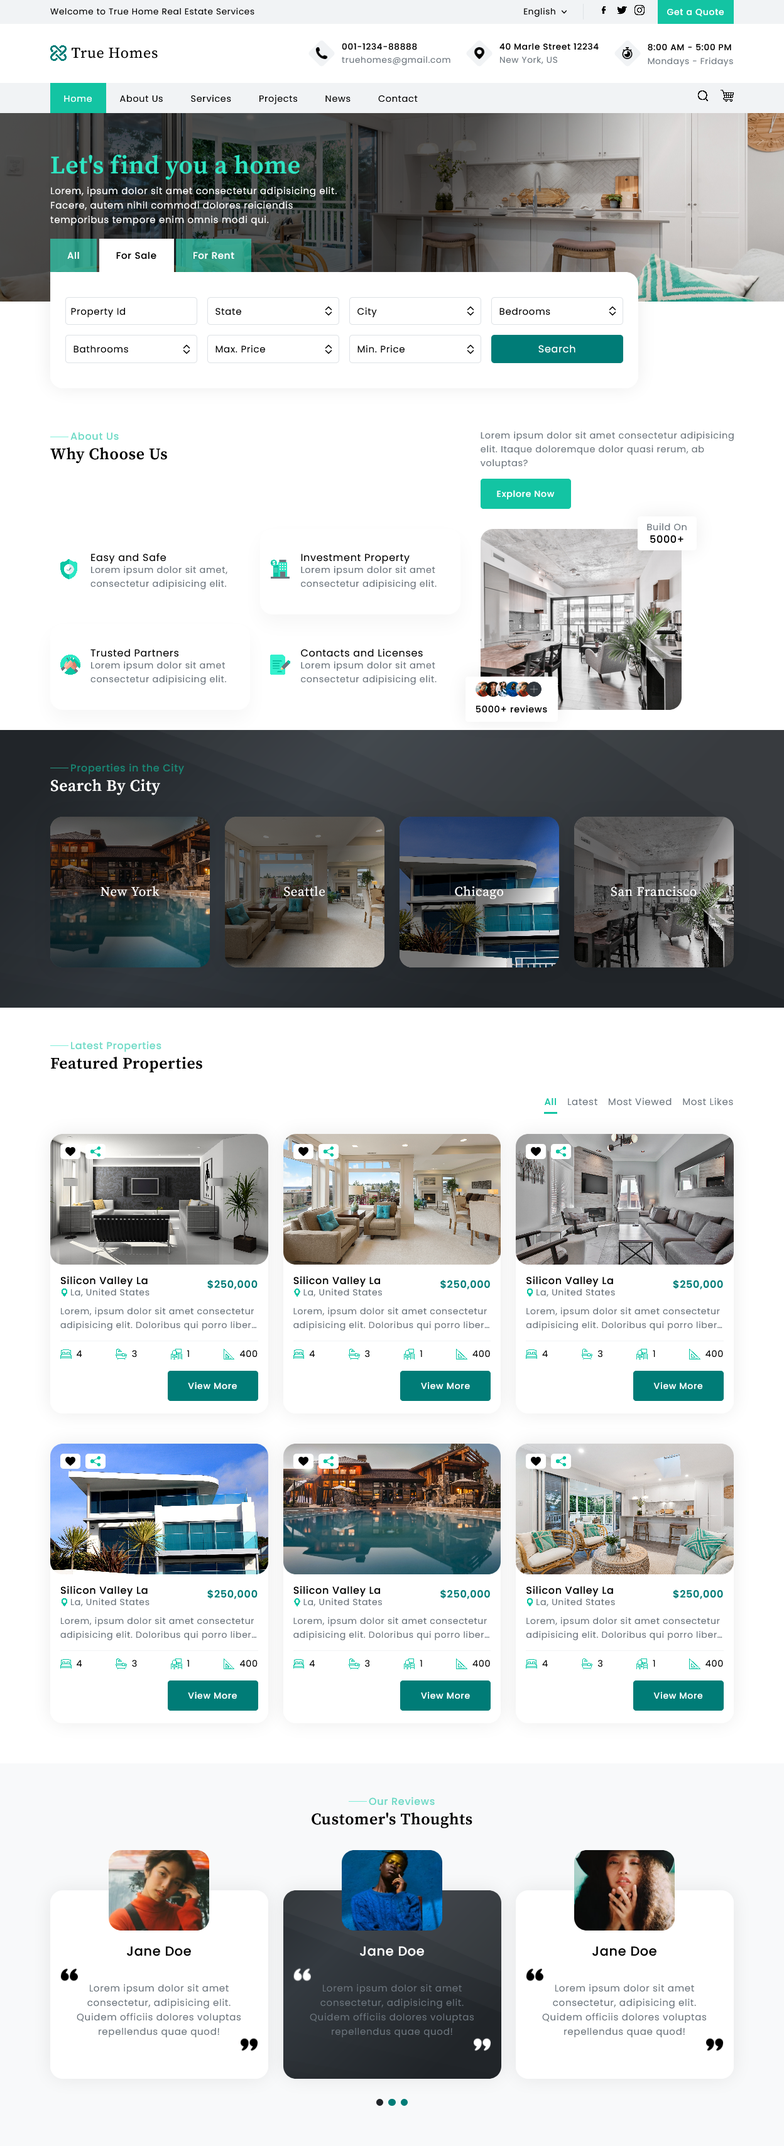
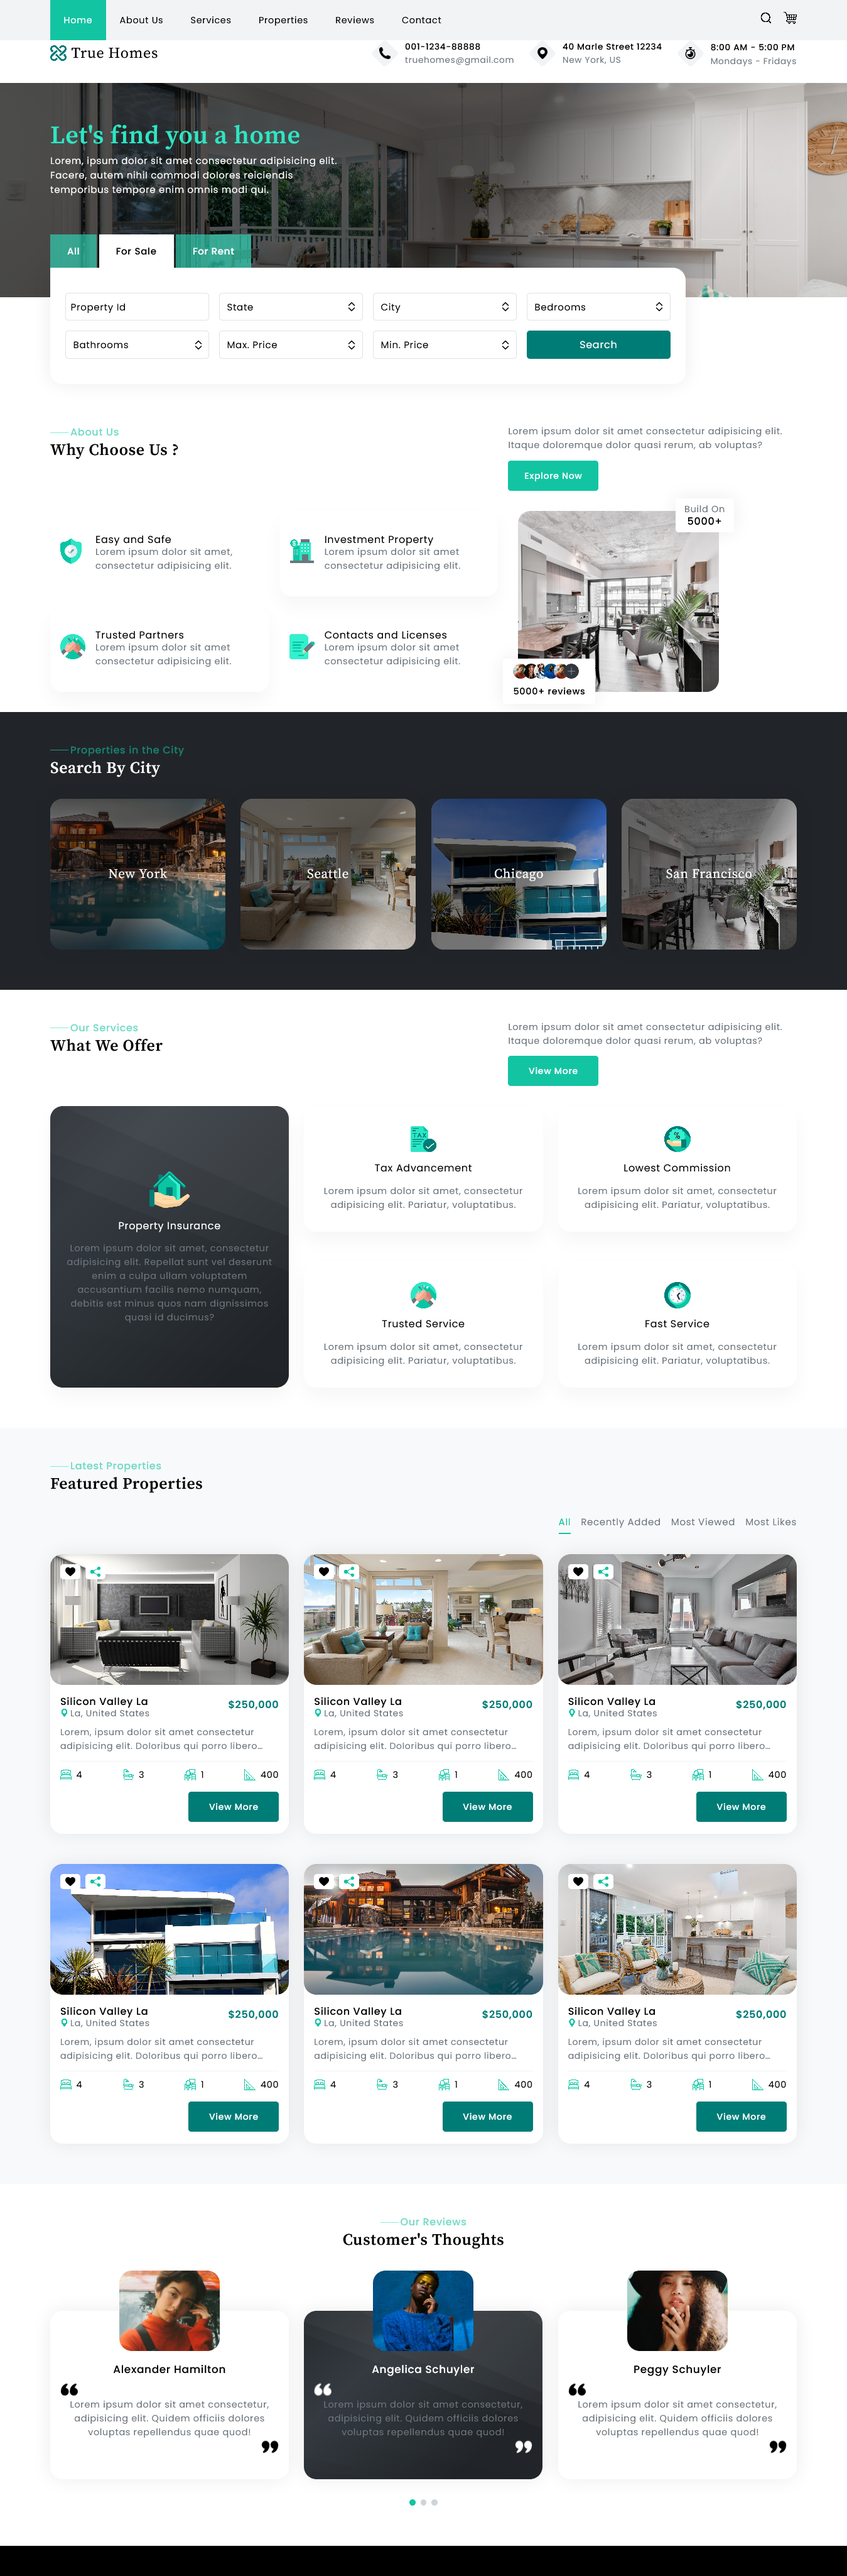
edited bg-image for hero section

diff --git a/css/style.css b/css/style.css
@@ -2,7 +2,7 @@
  * @author Dana Campbell
  * @email danacam28@gmail.com
  * @create date 2022-01-18 08:30:40
- * @modify date 2022-01-25 11:26:24
+ * @modify date 2022-01-25 15:17:31
  * @desc [description]
  */
 
@@ -65,6 +65,7 @@ li {
 .section {
 	padding: 3em 5em 4em 5em;
 	transition: padding 0.5s ease-in-out;
+	/* scroll-padding-top: 400px; */
 }
 
 .site-logo {
@@ -156,11 +157,11 @@ li {
 	top: 0; left: -100%;
 	width: 45%; height: 100%;
 	background: rgba(0,0,0,0.84);
+	z-index: 23;
 }
 
 .overlay.active {
 	left: 0;
-	z-index: 30;
 	transition: left 0.5s ease-in-out;
 }
 
@@ -306,20 +307,26 @@ header {
 	padding: 0 5em;
 	transition: all 0.5s ease-in-out;
 	width: 100%; height: 3rem; 
+	transition: all 0.5s ease-in-out;
+	z-index: 22;
 }
 
 .header__bottom.sticky {
 	position: fixed;
+	height: 4rem;
 	top: 0; left: 0;
-	z-index: 22;
 }
 
 nav {
-	height: 3rem;
+	height: 100%;
 	display: flex;
 }
 
 nav a {
+	display: flex;
+	justify-content: center;
+	align-items: center;
+	align-items: center;
 	color: var(--black);
 	font-size: 0.9rem;
 	height: 100%;
@@ -354,6 +361,7 @@ nav a.active {
 	width: calc(100% - 10rem); height: 5rem;
 	padding: 1em;
 	background: var(--white);
+	box-shadow: var(--shadow);
 	/* border-radius: 20px; */
 	display: none;
 	transition: left 0.5s ease-in-out;
@@ -419,10 +427,10 @@ nav a.active {
 	background-position: center;
 	background-repeat: no-repeat;
 	background-size: cover;
-	-o-background-size: cover;
-    -moz-background-size: cover;
-    -webkit-background-size: cover;
-	background-attachment: fixed;
+	-o-background-size:cover; 
+	-moz-background-size:cover; 
+	-webkit-background-size:cover; 
+	background-attachment: scroll;
 	padding: 4em 0 2em 5em;
 }
 
@@ -1321,20 +1329,13 @@ footer > * {
 		top: 0; right: -100%;
 		flex-direction: column;
 		background: var(--white);
-		z-index: 60;
+		z-index: 23;
 		width: 55%; height: 100vh;
 		transition: right 0.5s ease-in-out;
 	}
 	
-
 	nav.active {
 		right: 0;
-	}
-	
-	nav a {
-		display: flex;
-		justify-content: center;
-		align-items: center;
 	}
 	
 	.header__bottom-toggler {
@@ -1493,9 +1494,9 @@ footer > * {
 
 	/***** HERO *****/
 	/*** Hero Content ***/
-	.hero__content p {
+	/* .hero__content p {
 		margin-top: 1.5em;
-	}
+	} */
 
 	/***** SERVICES SECTION *****/
 	/*** Services Cards ***/

diff --git a/index.html b/index.html
@@ -68,7 +68,7 @@
                     </div>
                     <div>
                         <address>
-                            40 Marle Street 12234 <br>
+                            40 Marle Street <br>
                             <span>New York, US</span>
                         </address>
                     </div>
@@ -644,9 +644,9 @@
                    <img src="./img/f1.jpg" alt="">
                    <span>Alexander Hamilton</span>
                    <div>
-                        <img src="./img/quote.png" alt="">
+                        <img src="./img/quote2.png" alt="">
                         <p>Lorem ipsum dolor sit amet consectetur, adipisicing elit. Quidem officiis dolores voluptas repellendus quae quod!</p>
-                        <img src="./img/quote.png" alt="">
+                        <img src="./img/quote2.png" alt="">
                    </div>
                </div>
                <!-- Card 2 -->
@@ -654,9 +654,9 @@
                    <img src="./img/f4.jpg" alt="">
                    <span>Angelica Schuyler</span>
                    <div>
-                        <img src="./img/quote.png" alt="">
+                        <img src="./img/quote2.png" alt="">
                         <p>Lorem ipsum dolor sit amet consectetur, adipisicing elit. Quidem officiis dolores voluptas repellendus quae quod!</p>
-                        <img src="./img/quote.png" alt="">
+                        <img src="./img/quote2.png" alt="">
                    </div>
                </div>
                <!-- Card 3 -->
@@ -664,9 +664,9 @@
                    <img src="./img/f2.jpg" alt="">
                    <span>Peggy Schuyler</span>
                    <div>
-                        <img src="./img/quote.png" alt="">
+                        <img src="./img/quote2.png" alt="">
                         <p>Lorem ipsum dolor sit amet consectetur, adipisicing elit. Quidem officiis dolores voluptas repellendus quae quod!</p>
-                        <img src="./img/quote.png" alt="">
+                        <img src="./img/quote2.png" alt="">
                    </div>
                </div>
             </div>
